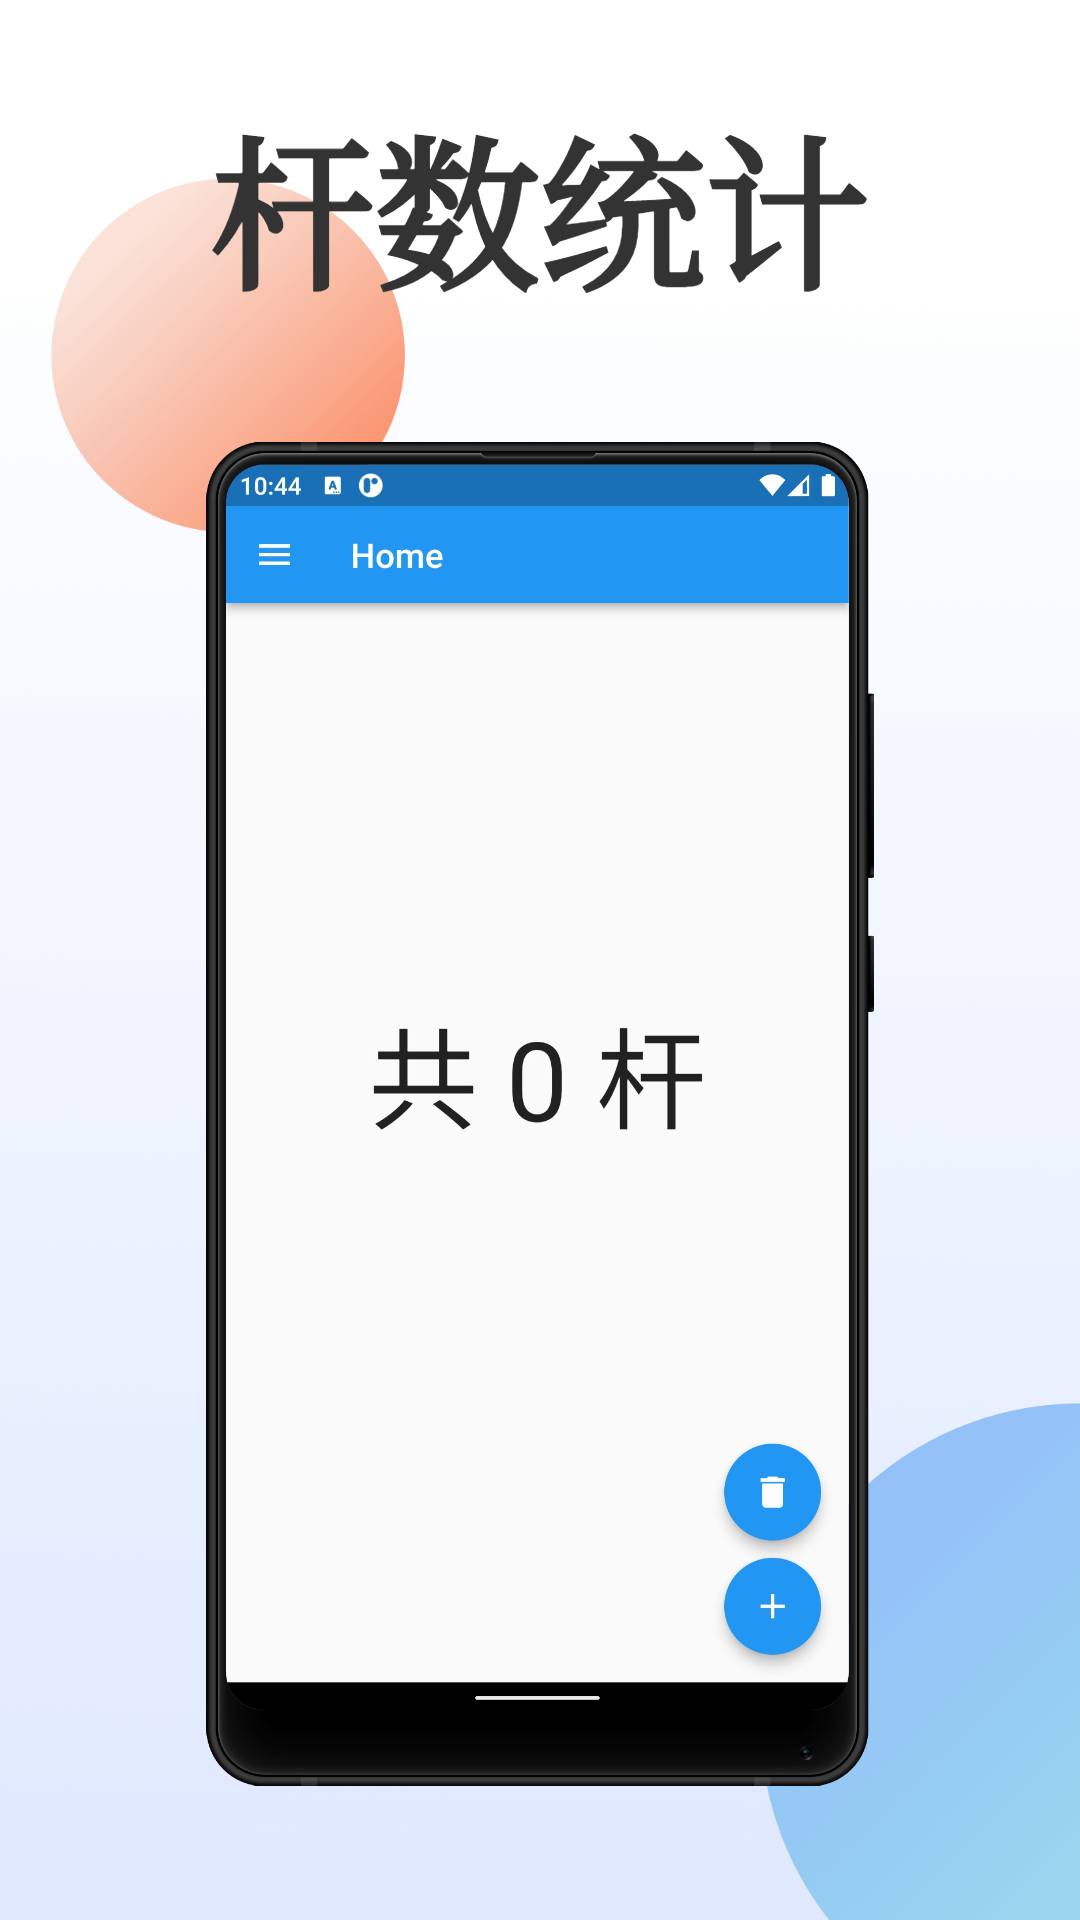
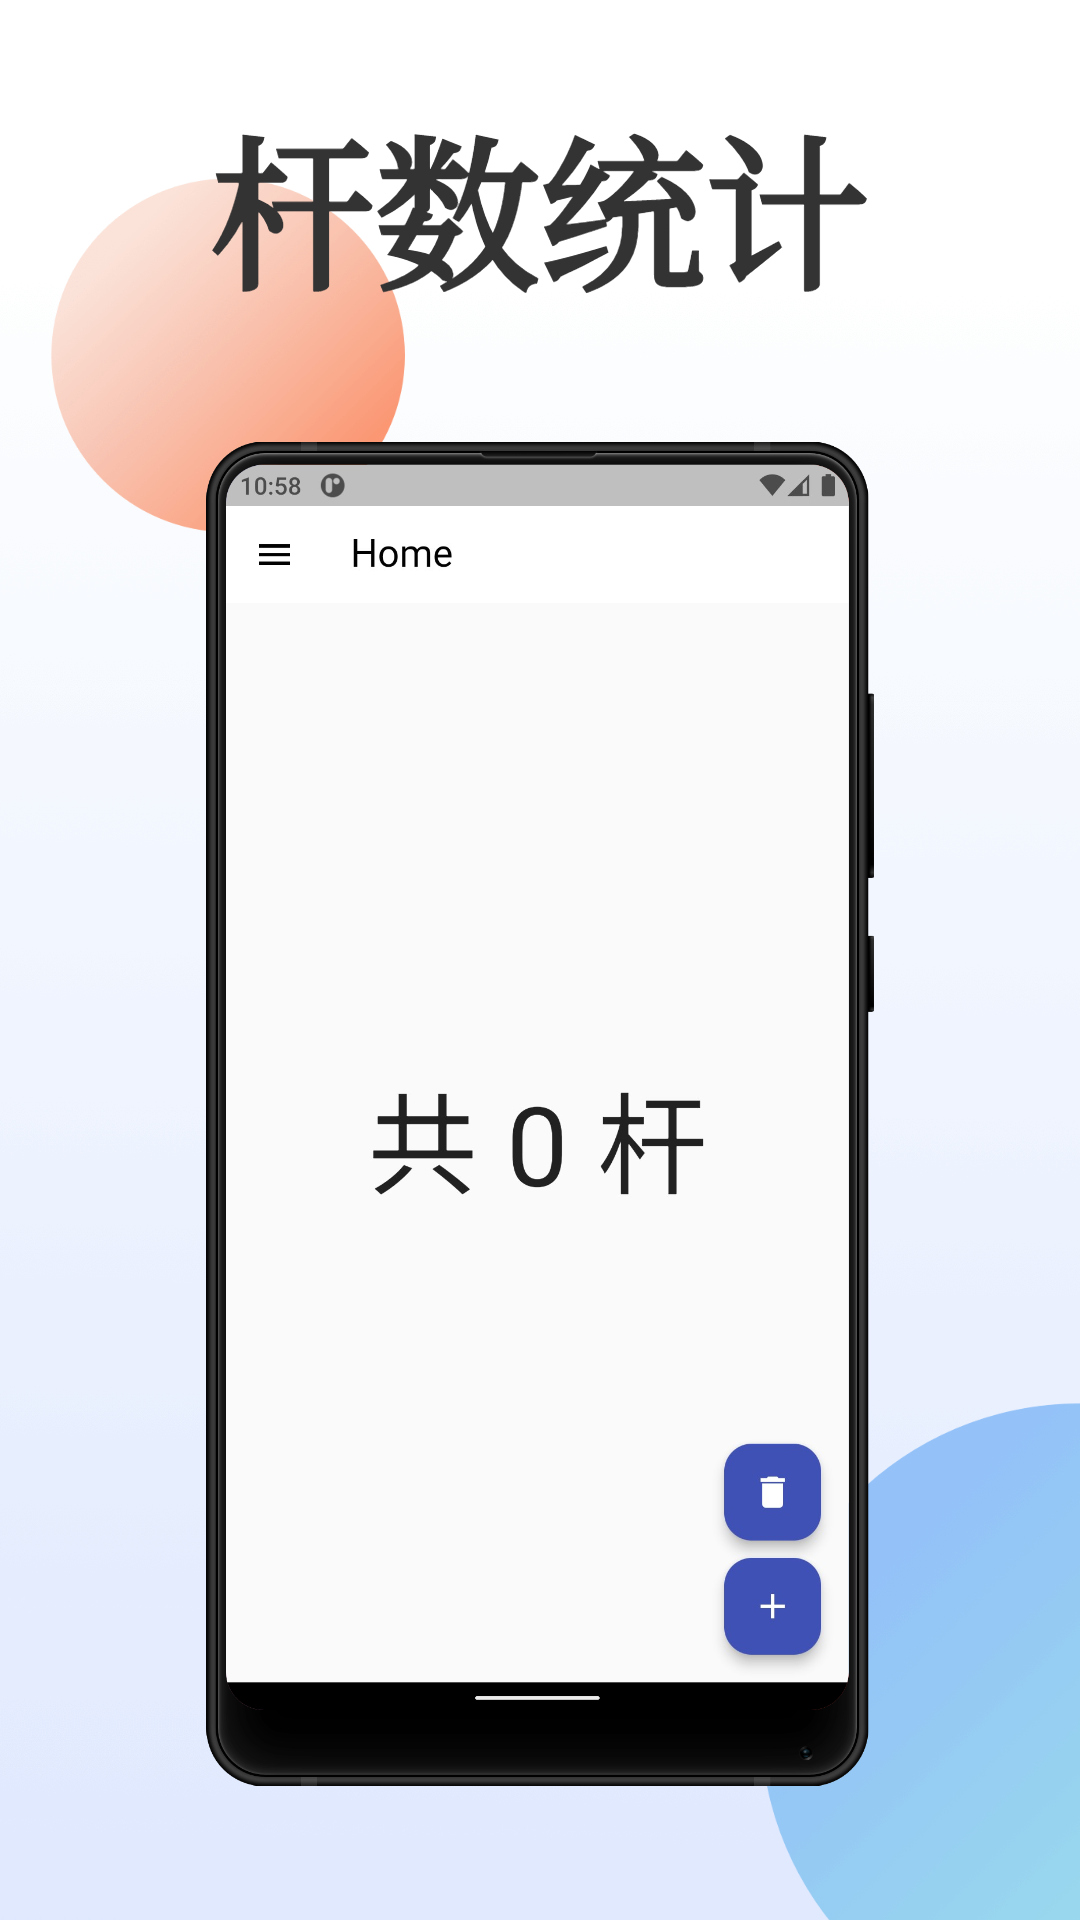
migrate to material3

diff --git a/lib/snooker.dart b/lib/snooker.dart
@@ -3,6 +3,23 @@ import 'package:flutter_material_pickers/flutter_material_pickers.dart';
 import 'package:material_segmented_control/material_segmented_control.dart';
 import 'drawer.dart';
 
+const scoreSize = Size(128, 1);
+
+Icon getBallIcon(Color color) {
+  return Icon(
+    Icons.circle,
+    color: color,
+    size: 64,
+    shadows: const [
+      Shadow(
+        blurRadius: 15,
+        offset: Offset(0.0, 2.0),
+        color: Colors.grey,
+      )
+    ],
+  );
+}
+
 class Snooker extends StatefulWidget {
   Snooker({Key? key}) : super(key: key);
 
@@ -16,7 +33,7 @@ class _SnookerState extends State<Snooker> {
   // var _lastScores_ = <int>[0, 0]; // TODO: return
   static const Icon _playing = Icon(
     IconData(0xe655, fontFamily: "iconfont"),
-    color: themeColor,
+    color: primaryColor,
   );
   static const Icon _waiting = Icon(
     Icons.airline_seat_recline_normal_rounded,
@@ -38,18 +55,17 @@ class _SnookerState extends State<Snooker> {
                 children: const {
                   0: Text(
                     "Player1",
-                    style: TextStyle(fontSize: 24),
+                    style: TextStyle(fontSize: 16, fontWeight: FontWeight.bold),
                   ),
                   1: Text(
                     "Player2",
-                    style: TextStyle(fontSize: 24),
+                    style: TextStyle(fontSize: 16, fontWeight: FontWeight.bold),
                   ),
                 },
                 selectionIndex: _curPlayer,
-                borderColor: Colors.grey,
-                selectedColor: themeColor,
+                borderColor: Colors.black,
+                selectedColor: secondaryColor,
                 unselectedColor: Colors.white,
-                borderRadius: 16.0,
                 onSegmentChosen: (int index) {
                   setState(() {
                     _curPlayer = index;
@@ -64,6 +80,7 @@ class _SnookerState extends State<Snooker> {
           ),
           const SizedBox(height: 16),
           Row(
+            mainAxisAlignment: MainAxisAlignment.center,
             children: [
               TextButton(
                   onPressed: () => showMaterialNumberPicker(
@@ -75,30 +92,35 @@ class _SnookerState extends State<Snooker> {
                         onChanged: (value) =>
                             setState(() => _scores_[0] = value),
                       ),
+                  style: ButtonStyle(
+                    minimumSize: MaterialStateProperty.all(scoreSize),
+                  ),
                   child: Text(
                     "${_scores_[0]}",
                     style: const TextStyle(fontSize: 64),
                   )),
               const Text(
                 ":",
-                style: TextStyle(fontSize: 64, color: themeColor),
+                style: TextStyle(fontSize: 64, color: primaryColor),
               ),
               TextButton(
                   onPressed: () => showMaterialNumberPicker(
                         context: context,
-                        title: "Score of Player1",
+                        title: "Score of Player2",
                         maxNumber: 147,
                         minNumber: 0,
                         selectedNumber: _scores_[1],
                         onChanged: (value) =>
                             setState(() => _scores_[1] = value),
                       ),
+                  style: ButtonStyle(
+                    minimumSize: MaterialStateProperty.all(scoreSize),
+                  ),
                   child: Text(
                     "${_scores_[1]}",
                     style: const TextStyle(fontSize: 64),
                   )),
             ],
-            mainAxisAlignment: MainAxisAlignment.center,
           ),
           Expanded(
             child: GridView.count(
@@ -109,68 +131,47 @@ class _SnookerState extends State<Snooker> {
               crossAxisCount: 3,
               children: <Widget>[
                 IconButton(
-                    onPressed: () => setState(() {
-                          _scores_[_curPlayer]++;
-                        }),
-                    icon: const Icon(
-                      Icons.circle,
-                      color: Color(0xFFFF0000),
-                      size: 64,
-                    )),
+                  onPressed: () => setState(() {
+                    _scores_[_curPlayer]++;
+                  }),
+                  icon: getBallIcon(const Color(0xFFFF0000)),
+                ),
                 IconButton(
-                    onPressed: () => setState(() {
-                          _scores_[_curPlayer] += 2;
-                        }),
-                    icon: const Icon(
-                      Icons.circle,
-                      color: Colors.yellow,
-                      size: 64,
-                    )),
+                  onPressed: () => setState(() {
+                    _scores_[_curPlayer] += 2;
+                  }),
+                  icon: getBallIcon(Colors.yellow),
+                ),
                 IconButton(
-                    onPressed: () => setState(() {
-                          _scores_[_curPlayer] += 3;
-                        }),
-                    icon: const Icon(
-                      Icons.circle,
-                      color: Colors.green,
-                      size: 64,
-                    )),
+                  onPressed: () => setState(() {
+                    _scores_[_curPlayer] += 3;
+                  }),
+                  icon: getBallIcon(Colors.green),
+                ),
                 IconButton(
-                    onPressed: () => setState(() {
-                          _scores_[_curPlayer] += 4;
-                        }),
-                    icon: const Icon(
-                      Icons.circle,
-                      color: Color(0xFFA52A2A),
-                      size: 64,
-                    )),
+                  onPressed: () => setState(() {
+                    _scores_[_curPlayer] += 4;
+                  }),
+                  icon: getBallIcon(const Color(0xFFA52A2A)),
+                ),
                 IconButton(
-                    onPressed: () => setState(() {
-                          _scores_[_curPlayer] += 5;
-                        }),
-                    icon: const Icon(
-                      Icons.circle,
-                      color: Colors.blue,
-                      size: 64,
-                    )),
+                  onPressed: () => setState(() {
+                    _scores_[_curPlayer] += 5;
+                  }),
+                  icon: getBallIcon(Colors.blue),
+                ),
                 IconButton(
-                    onPressed: () => setState(() {
-                          _scores_[_curPlayer] += 6;
-                        }),
-                    icon: const Icon(
-                      Icons.circle,
-                      color: Color(0xFFFF7FFF),
-                      size: 64,
-                    )),
+                  onPressed: () => setState(() {
+                    _scores_[_curPlayer] += 6;
+                  }),
+                  icon: getBallIcon(const Color(0xFFFF7FFF)),
+                ),
                 IconButton(
-                    onPressed: () => setState(() {
-                          _scores_[_curPlayer] += 7;
-                        }),
-                    icon: const Icon(
-                      Icons.circle,
-                      color: Colors.black,
-                      size: 64,
-                    )),
+                  onPressed: () => setState(() {
+                    _scores_[_curPlayer] += 7;
+                  }),
+                  icon: getBallIcon(Colors.black),
+                ),
                 IconButton(
                   onPressed: () => setState(() {
                     _scores_[1 - _curPlayer] += 4;
@@ -179,6 +180,13 @@ class _SnookerState extends State<Snooker> {
                     Icons.warning_rounded,
                     color: Colors.red,
                     size: 64,
+                    shadows: [
+                      Shadow(
+                        blurRadius: 15,
+                        offset: Offset(0.0, 2.0),
+                        color: Colors.grey,
+                      )
+                    ],
                   ),
                   tooltip: "罚 4 分",
                 ),

diff --git a/lib/drawer.dart b/lib/drawer.dart
@@ -2,7 +2,9 @@ import 'package:flutter/material.dart';
 import 'package:url_launcher/url_launcher.dart';
 import 'package:flutter_linkify/flutter_linkify.dart';
 
-const themeColor = Colors.blue;
+const primaryColor = Colors.indigo;
+// const a = Colors.
+const secondaryColor = Colors.indigoAccent;
 String appName = "", version = ""; // from ./pubspec.yaml
 
 class MyDrawer extends StatelessWidget {
@@ -33,7 +35,7 @@ class MyDrawer extends StatelessWidget {
         children: [
           DrawerHeader(
             decoration: const BoxDecoration(
-              color: Colors.blue,
+              color: primaryColor,
             ),
             child: Text(
               appName,
@@ -52,7 +54,9 @@ class MyDrawer extends StatelessWidget {
           ),
           ListTile(
             leading: const Icon(
-              IconData(0xe61e, fontFamily: "iconfont"), color: Colors.red,),
+              IconData(0xe61e, fontFamily: "iconfont"),
+              color: Colors.red,
+            ),
             title: const Text('Snooker'),
             onTap: () {
               Navigator.pushNamed(context, '/snooker');
@@ -60,7 +64,9 @@ class MyDrawer extends StatelessWidget {
           ),
           ListTile(
             leading: const Icon(
-              IconData(0xe63a, fontFamily: "iconfont"), color: Colors.black,),
+              IconData(0xe63a, fontFamily: "iconfont"),
+              color: Colors.black,
+            ),
             title: const Text('Eight-ball'),
             enabled: false,
             onTap: () {

diff --git a/lib/home.dart b/lib/home.dart
@@ -27,22 +27,21 @@ class _HomeState extends State<HomePage> {
         floatingActionButton:
             Column(mainAxisAlignment: MainAxisAlignment.end, children: [
           FloatingActionButton(
-            child: const Icon(Icons.delete),
             onPressed: () => setState(() {
               _count = 0;
             }),
             heroTag: null,
+            child: const Icon(Icons.delete),
           ),
           const SizedBox(
             height: 10,
           ),
           FloatingActionButton(
-            child: const Icon(Icons.add),
-            // onPressed: () => _someFunc(),
             onPressed: () => setState(() {
               _count++;
             }),
             heroTag: null,
+            child: const Icon(Icons.add),
           )
         ]));
   }

diff --git a/lib/main.dart b/lib/main.dart
@@ -25,7 +25,8 @@ class MyApp extends StatelessWidget {
     return MaterialApp(
       title: appName, // used by the OS task switcher
       theme: ThemeData(
-        primarySwatch: themeColor,
+        useMaterial3: true,
+        primarySwatch: primaryColor,
         pageTransitionsTheme: const PageTransitionsTheme(
           builders: {
             TargetPlatform.android: ZoomPageTransitionsBuilder(),
